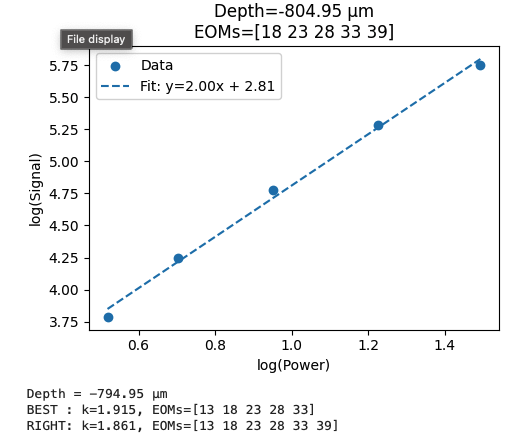
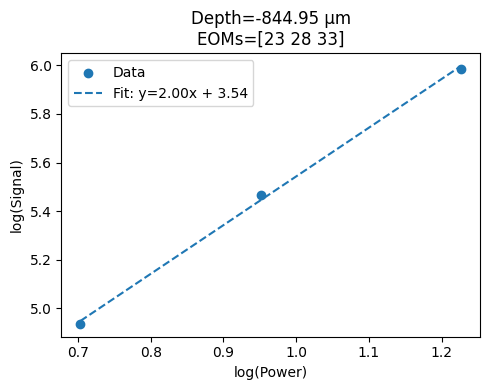
revise the readme according to the feedback

diff --git a/README.md b/README.md
@@ -2,11 +2,9 @@
 
 ## Materials:
 
-Instead of just using links, list the product part number, such as Sigma Aldrich, A4018-5G. One can also put a hyperlink to it, but with these part numbers, even if a link expires, people can still find out what it is.
-
-- [Agarose](https://www.sigmaaldrich.com/US/en/product/sial/a4018)
-- [1um fluorescent beads](https://www.thermofisher.com/order/catalog/product/F13081?SID=srch-srp-F13081): $C_{fluo} = 1\times10^{7}\ \text{beads}/\text{µL}$
-- [1um non-fluorescent polystyrene beads](https://polysciences.com/products/polybead-microspheres-100181m?srsltid=AfmBOorjVsqH1_RPydiDL_rl2QxODNqYwh8yssEixcAhqj7QJ9CAVFyL): $C_{poly} = 4.55\times10^{7}\ \text{beads}/\text{µL}$
+- [Agarose (Sigma Aldrich A4018-10G)](https://www.sigmaaldrich.com/US/en/product/sial/a4018)
+- [1um fluorescent beads (Thermo Fisher F13081)](https://www.thermofisher.com/order/catalog/product/F13081?SID=srch-srp-F13081): $C_{fluo} = 1\times10^{7}\ \text{beads}/\text{µL}$
+- [1um non-fluorescent polystyrene beads (Polysciences 07310)](https://polysciences.com/products/polybead-microspheres-100181m?srsltid=AfmBOorjVsqH1_RPydiDL_rl2QxODNqYwh8yssEixcAhqj7QJ9CAVFyL): $C_{poly} = 4.55\times10^{7}\ \text{beads}/\text{µL}$
 
 ---
 
@@ -19,7 +17,7 @@ Instead of just using links, list the product part number, such as Sigma Aldrich
 - Non-fluorescent polystyrene beads: $V_{poly} = 40\ \text{µL}$
 - Agarose solution: $V_{ag} = 156\ \text{µL}$
 
-1. The concentration of fluorescent beads:
+&nbsp;&nbsp;&nbsp;&nbsp; (a) The concentration of fluorescent beads:
 
 $$
 \frac{C_{fluo} \times V_{fluo}}{V_{fluo} + V_{poly} + V_{ag}}
@@ -27,7 +25,7 @@ $$
 = 2 \times 10^{5}\ \text{beads}/\text{µL}
 $$
 
-1. The concentration of non-fluorescent polystyrene beads:
+&nbsp;&nbsp;&nbsp;&nbsp; (b) The concentration of non-fluorescent polystyrene beads:
 
 $$
 \frac{C_{poly} \times V_{poly}}{V_{fluo} + V_{poly} + V_{ag}}
@@ -35,7 +33,7 @@ $$
 = 9.1 \times 10^{6}\ \text{beads}/\text{µL}
 $$
 
-1. Ratio between non-fluorescent polystyrene beads and fluorescent beads:
+&nbsp;&nbsp;&nbsp;&nbsp; (c) Ratio between non-fluorescent polystyrene beads and fluorescent beads:
 
 $$
 R = \frac{9.1 \times 10^{6}\ \text{beads}/\text{µL}}{2 \times 10^{5}\ \text{beads}/\text{µL}} = 45.5 : 1
@@ -47,26 +45,24 @@ $$
 
 ![Sample preparation setup](images/sample_preparation.png)
 
-1. <a id="eq-scale"></a>Scale (What is the precision requirement?)
+1. <a id="eq-scale"></a>[Scale with 1mg precision (e.g., Amazon B0B18FVKX9)](https://www.amazon.com/LACHOI-Analytical-Electronic-Scientific-Interface（100g/dp/B0B18FVKX9/ref=sr_1_23?crid=53N44CR6E6CP&dib=eyJ2IjoiMSJ9.JxhvFY01RhwK801tdZU35q9rQTYcC2tQthYvrtRK_c9qMeJaWoobppvpIbADMv_egsUysH1QiAmutARfYbUVo3xsRe3cZ6kqu_ip90FScCJDGi5FgLu_) 
 2. <a id="eq-bottle"></a>Heat resistant bottle for mixing and storing agarose solution
-3. <a id="eq-hotplate"></a>Stirring hotplate (e.g., Cimarec, or other more permanent vendors?)
-4. <a id="eq-tubes"></a>Microcentrifuge tubes
-5. <a id="eq-rack"></a>Tube rack
-6. <a id="eq-pipettes"></a>Pipettes (2–20 µL and 20–200 µL, kept in a pipette stand)
+3. <a id="eq-hotplate"></a>[Cimarec stirring hotplate (e.g., Thermo Fisher SP88854100)](https://www.labdepotinc.com/cimarec-plus-stirring-hotplate-series?hsa_acc=5326096552&hsa_ad=&hsa_cam=21108713499&hsa_grp=&hsa_kw=&hsa_mt=&hsa_net=adwords&hsa_src=x&hsa_tgt=&hsa_ver=&utm_campaign=Zombie+SKU+PMax&utm_medium=ppc&utm_source=adwords&utm_term=) 
+4. <a id="eq-tubes"></a>[Microcentrifuge tubes (e.g., Amazon B0BBV2LMW6)](https://www.amazon.com/Microcentrifuge-Sterilized-Plastic-Storage-Without/dp/B0BBV2LMW6/ref=sr_1_4?crid=25C67XB8W2600&dib=eyJ2IjoiMSJ9.xPCQBU3akLQF9rlTcVTk80aYDqlnaLlgpIB3o61syALNo4YVZ7pK2TRhUSHHzbtyePx1n4N1VfY8Aj9sUqRUC6LP2Sn7Orz1mKqxCnoEVPYP5y-dbozyev0I&th=1)
+5. <a id="eq-rack"></a>[Tube rack (e.g., Amazon B0D8R66MQ1)](https://www.amazon.com/microcentrifuge-centrifuge-Holder-0-5ml-2ml-Centrifugal/dp/B0D8R66MQ1/ref=sr_1_3?crid=1ZI3PYB3G9CUW&dib=eyJ2IjoiMSJ9.YORppysqg2ETX3WIv1hENrcBaf5mFiQT1zwaMrziZxj4AO9c8Xdj1H7rB4cdGXhXPN5NPZLih2-Zv4NAnjZxWRS0aKGhmVgp_CD9SMFMh5y9FSw52Hk&th=1) 
+6. <a id="eq-pipettes"></a>[Pipettes covering 2–20 µL and 20–200 µL volume ranges (e.g., Thermo Fisher F2-20R and Thermo Fisher F2-200R), stored in a pipette stand](https://pipette.com/F2-20R.html) 
+7. <a id="eq-sharpcontainer"></a>Sharps disposal container (requested from the BU EHS department)
+8. <a id="eq-vortexer"></a>[Vortexer (e.g., VWR IKA Model MV1)](https://www.marshallscientific.com/VWR-IKA-Model-MV1-Vortexer-p/vwr-ika.htm?srsltid=AfmBOop9bjFGTjvm6mfIoLMPdbEW2Kp7j4NSZWPVejsxydbgDRdUsfgK)
 
-*Position 7 (sharps container) is not used in this protocol.*
+**Additional items not labeled in the figure:**
 
-8. <a id="eq-vortexer"></a>Vortexer ([https://www.sigmaaldrich.com/US/en/product/aldrich/z258423?utm_source=google&utm_medium=cpc&utm_campaign=23331190685&utm_content=194830326172&gad_source=1&gad_campaignid=23331190685&gbraid=0AAAAAD8kLQSS_6w2_B1C1Bi5Sa_Ktb4WU&gclid=CjwKCAjwtvvPBhBuEiwAPMijrzI-B3EqGSsYTCZIccVJ85d4c7gr-BJnYrwrmTU8NBiiDqytkhDM7hoCxJQQAvD_BwE](https://www.sigmaaldrich.com/US/en/product/aldrich/z258423?utm_source=google&utm_medium=cpc&utm_campaign=23331190685&utm_content=194830326172&gad_source=1&gad_campaignid=23331190685&gbraid=0AAAAAD8kLQSS_6w2_B1C1Bi5Sa_Ktb4WU&gclid=CjwKCAjwtvvPBhBuEiwAPMijrzI-B3EqGSsYTCZIccVJ85d4c7gr-BJnYrwrmTU8NBiiDqytkhDM7hoCxJQQAvD_BwE)) (Fix it according to the format we discussed.)
-
-**Additional items not labeled in the figure**
-
-- <a id="eq-beaker"></a>Beaker (used as a water bath around the agarose container)
-- <a id="eq-stirbar"></a>Magnetic stir bar (e.g., vendor: [[https://www.sigmaaldrich.com/US/en/product/aldrich/z282456?utm_source=google&utm_medium=cpc&utm_campaign=23331190685&utm_content=194830326172&gad_source=1&gad_campaignid=23331190685&gbraid=0AAAAAD8kLQSS_6w2_B1C1Bi5Sa_Ktb4WU&gclid=CjwKCAjwtvvPBhBuEiwAPMijr_WbPgAh6LRYkxQCAvRytWpy8d6M3-D5_5JFgzTYt44BOdLEZkLuKhoCHpMQAvD_BwE]](https://www.sigmaaldrich.com/US/en/product/aldrich/z282456?utm_source=google&utm_medium=cpc&utm_campaign=23331190685&utm_content=194830326172&gad_source=1&gad_campaignid=23331190685&gbraid=0AAAAAD8kLQSS_6w2_B1C1Bi5Sa_Ktb4WU&gclid=CjwKCAjwtvvPBhBuEiwAPMijr_WbPgAh6LRYkxQCAvRytWpy8d6M3-D5_5JFgzTYt44BOdLEZkLuKhoCHpMQAvD_BwE])
-- <a id="eq-slide"></a>Thick cavity well slide (e.g., United Scientific, how thick and how large is the well?)
-- <a id="eq-coverslip"></a>Coverslip (e.g, ???)
-- <a id="eq-swab"></a>Cotton swab
-- <a id="eq-polish"></a>Nail polish
-- <a id="eq-glue"></a>Super glue (e.g., Loctite)
+- <a id="eq-beaker"></a>[Beaker used as a water bath for heating and maintaining the agarose solution (e.g., Amazon B08X6KP8PS)](https://www.amazon.com/Feekoon-Measuring-Graduated-Cylinder-Cylinders/dp/B08X6KP8PS/ref=sr_1_4?dib=eyJ2IjoiMSJ9.fkiy-8L7Je-EhWoATqCnvyxkq-v-FXMNVzCA7z-qGeDNDcs54P547jp8ul-74plALojN6ZS2jLbsIO2a_mj1rIs66-stxX9k9EgyGbAiZ4CkSnhwNJoL-2j5WdnW8k42mjKDnWgq5s6cqeG)
+- <a id="eq-stirbar"></a>[Magnetic stir bar (Amazon B08433BR2B)](https://www.amazon.com/Magnetic-Stirrer-Mixer-Laboratory-Magnet/dp/B08433BR2B/ref=sr_1_2_sspa?crid=196CI2UFZHRCA&dib=eyJ2IjoiMSJ9.BECz6XLmK0t2h23_xptReyUTl5H8ZWBFAkGMivEEslBczVqOcwe5r1wQVG_yIOzjQ9UYQqf0aYLCqZXuW098UgIffXQruAhnDwCammP35x5B738wfu_AB1LG1uUR9&th=1)
+- <a id="eq-slide"></a>[Thick cavity well slide (e.g., United Scientific CSTK01 1-Concavity slide; 75 mm × 25 mm, 3 mm thick, concavity diameter ~16 mm, depth ~0.8 mm)](https://www.labdepotinc.com/p-12937-cavity-slides?utm_term=&utm_campaign=Zombie+SKU+PMax&utm_source=adwords&utm_medium=ppc&hsa_acc=5326096552&hsa_cam=22295522342&hsa_grp=&hsa_ad=&hsa_src=x&hsa_tgt=&hsa_kw=&hsa_mt=&hsa_net=adwords&hsa_ver=3&gad_source=1&ga)
+- <a id="eq-coverslip"></a>[Coverslip (e.g., Thorlabs CG15CH2, #1.5H thickness, 22 mm × 22 mm)](https://www.thorlabs.com/item/CG15CH2)
+- <a id="eq-swab"></a>[Cotton swab (e.g., VWR International 10806-000-PK)](https://www.labdepotinc.com/p-64-cotton-tipped-wooden-applicators?utm_term=&utm_campaign=Performance+Max+-+AGT&utm_source=adwords&utm_medium=ppc&hsa_acc=5326096552&hsa_cam=15278638752&hsa_grp=&hsa_ad=&hsa_src=x&hsa_tgt=&hsa_kw=&hsa_mt=&hsa_net=adwords&hsa)
+- <a id="eq-polish"></a>[Nail polish (e.g., Amazon B0046MLZLG)](https://www.amazon.com/Sally-Hansen-Advanced-Nails-Fluid/dp/B0046MLZLG?th=1)
+- <a id="eq-glue"></a>[Krazy Glue (e.g., Amazon B0BXMWDM42)](https://www.amazon.com/Krazy-Glue-EPIKG86648R-KG86648R-All-Purpose/dp/B0BXMWDM42/ref=sr_1_8?crid=2H3DLY2HBZ1CP&dib=eyJ2IjoiMSJ9.ZVQWAnzUL49sypVj2K7n-leSSrUo7HbydfUd-yI2bc795v5Pu9ScxNl3HniW7hCEcXaGtl3xIBKb4z0qt5psn8JYd0jh3G0daA0tnMldLPD4FYgdFbVpa6mZ_Phrbjb&th=1)
 
 ---
 
@@ -86,19 +82,19 @@ Sample preparation setup
 - Slightly unscrew the cap of container of agarose.
 - Turn on the [stirring hotplate](#eq-hotplate) and set the stirring speed to 7. Heat until the agarose is fully dissolved and the solution becomes clear (approximately 30 min).
 
-1. **Make the tissue phantom samples.**
+2. **Make the tissue phantom samples.**
 
-- Retrieve one [microcentrifuge tube](#eq-tubes) from the cabinet and place it into the [tube rack](#eq-rack). Using the pipettes from the pipette stand, pipette 4 µL of fluorescent beads with a [2–20 µL pipette](#eq-pipettes) and 40 µL of non-fluorescent polystyrene beads with a [20–200 µL pipette](#eq-pipettes) into the same tube. Dispose of the pipette tips into the sharps container.
+- Retrieve one [microcentrifuge tube](#eq-tubes) from the cabinet and place it into the [tube rack](#eq-rack). Using the pipettes from the pipette stand, pipette 4 µL of fluorescent beads with a [2–20 µL pipette](#eq-pipettes) and 40 µL of non-fluorescent polystyrene beads with a [20–200 µL pipette](#eq-pipettes) into the same tube. Dispose of the pipette tips into the [sharps container](#eq-sharpcontainer).
 - Using a 20–200 µL pipette, pipette 156 µL of agarose from the container and dispense it into the same microcentrifuge tube. Keep the pipette tip below the liquid surface to avoid bubbles, and mix by pipetting up and down quickly to ensure even mixing before the agarose starts to gel. Be sure to avoid generating bubbles during the process.
 - Turn on the [mini vortexer](#eq-vortexer) and set the speed to 1400 rpm. Place the tube on the vortexer and mix thoroughly (approximately 40 second).
 - Using a 20–200 µL pipette, pipette 135 µL of the mixture and dispense it into the [cavity slide](#eq-slide).
 - Slowly lower the [coverslip](#eq-coverslip) from the side so that it gently covers the sample on the cavity slide and avoid pressing down forcefully to reduce bubble formation.
 - Lightly press the coverslip with a [cotton swab](#eq-swab) to squeeze out and wipe any excess liquid from the edges using a cotton swab to keep the edges clean.
 - Apply [nail polish](#eq-polish) to the four edges of the coverslip first to fix it in place and allow it to dry for approximately 5 mins.
-- Once the nail polish is dry, apply [glue](#eq-glue) along the four edges of the coverslip to further enhance the seal.
+- Once the [nail polish](#eq-polish) is dry, apply [glue](#eq-glue) along the four edges of the [coverslip](#eq-coverslip) to further enhance the seal.
 - Mark the date and name of the sample on the slide.
 
-1. **Shutdown and storage**
+3. **Shutdown and storage**
 
 - Reduce the hotplate temperature and stirring speed to 0, then switch the [stirring hotplate](#eq-hotplate) off.
   > ⚠ **Fire hazard:** Never leave the hotplate running unattended. If the water bath fully evaporates while the heater is still on, the residual agarose will carbonize and the container can ignite.
@@ -113,57 +109,77 @@ Sample preparation setup
 - Close the laser shutter so that there is no excitation light after the objective lens.
 - In a dark environment, acquire multiple images under exactly the same imaging condition and image acquisition configurations as the rest of imaging sessions, except that the excitation laser is blocked.
 
-1. **Pockels Cell Calibration (Optional)**
+2. **Pockels Cell Calibration**
 
 - This procedure is required if one does not know the absolute excitation laser power after the objective lens, and the laser power is controlled by a Pockels Cell.
 - Open the laser shutter and set the laser to the desired wavelength.
 - Gradually increase the Pockels cell control voltage and record the corresponding laser power after the beam passes through the objective lens.
 
-1. **Determination of the Fluorescence Signal Strength in the Tissue Phantom**
+3. **Determination of the Fluorescence Signal Strength in the Tissue Phantom**
 
 - Place the tissue phantom slide on the sample stage. Bring the objective lens close to the slide surface (distance less than its working distance, e.g., 1 mm). Apply immersion medium between the objective and the slide.
 - Set the laser power after the objective to a relatively low power (1-2 mW). Turn on the scanner and begin scanning the sample. Move the microscope z-stage with a step size of 10 µm to gradually move the objective away from the sample until fluorescence signal is first observed. Record the corresponding z-plane as $z_1$, which represents the lower boundary of the fluorescence volume.
 - Continue raising the microscope until the fluorescence signal completely disappears. Record the corresponding z-plane as $z_2$, which represents the surface of the fluorescent sample.
 
-1. **Scanning the Fluorescence Volume**
+4. **Scanning the Fluorescence Volume**
 
-- Scan the same fluorescence volume ($z_2$ to $z_1$) using a series of different laser powers after the objective (maximum power: 5 mW).
+- Divide the fluorescence volume ($z_2$ to $z_1$) into three sub-volumes along the axial direction.
+- Start from the sub-volume closest to the sample surface and acquire image stacks using a relatively low excitation power range. Refer to [the procedure](#power-range-determination) describing how the power range maintaining the fluorescence signal within the non-saturated 2PE regime is determined.
+- After completing the imaging of one sub-volume, increase the excitation power and move to the next deeper sub-volume.
+- Repeat the same procedure for each subsequent sub-volume: determine an appropriate excitation power range and acquire the corresponding image stack.
 - Use a step size of 10 µm between imaging planes.
-- For each image, record its excitation laser power and its imaging depth.
+- For each image, record its excitation laser power and imaging depth.
 
 ---
 
-## Data processing ([code](https://github.com/garyhost0630/Multiphoton-attenuation-length-measurement))
+## Data processing ([Example](https://github.com/garyhost0630/Multiphoton-attenuation-length-measurement))
 
 1. **Background Subtraction**
 
-- Calculate the mean of the background images to obtain the background. Refer to [the procedure](#eal-measurement) describing how it was captured.
-- If the backgrond is non-zero, subtract it from all the images.
+- Calculate the mean of the background image stack to obtain the averaged background image. Refer to [the procedure](#eal-measurement) describing how the background images were acquired.
+- Subtract the averaged background image from all fluorescence images.
+- Negative values after subtraction are clipped to zero.
 
-1. **Determination of the Power Range for Unsaturated 2PE for each depth**
+<a id="power-range-determination"></a>
+&nbsp;&nbsp;&nbsp;&nbsp;&nbsp; 2. **Determination of the Power Range for Unsaturated 2PE for Each Depth**
 
-- For each imaging depth, calculate the mean intensity of the top 1% brightest pixels in the image as the fluorescence signal at each power.
-- Perform a linear fit in log-log space using consecutive power values and their corresponding fluorescence signals, where the x-axis is $\log(\text{power})$ and the y-axis is $\log(\text{signal})$.
-- Determine the appropriate power range such that the slope of the fitted line is closest to 2, indicating unsaturated 2PE, as shown in the figure below.
-
+- For each imaging depth, extract fluorescence signals under different excitation powers.
+- Convert EOM values to excitation power using `lookuptable.xlsx`.
+- Calculate the fluorescence signal at each power as the mean intensity of the brightest `TOP_PERCENT` percent of pixels.
+- Perform linear fits in log-log space using consecutive excitation powers and their corresponding fluorescence signals:
+$$
+\log(\text{Signal}) = k \log(\text{Power}) + b
+$$
+- Determine the appropriate excitation power range by selecting the contiguous fitting window whose slope is closest to `TARGET_TWO_PHOTON_SLOPE = 2.0`.
+- An example of the fitting result is shown in the figure below.
 
 ![Log-log fit of fluorescence signal vs power](images/power_slope_fit.png)
 
 
-1. **Selection of the Depth Range for EAL Calculation**
+3. **Selection of the Depth Range for EAL Calculation**
 
-- Using the method described in Step 2, determine the optimal power range and the corresponding linear fitting slope for each imaging depth. A summary of the results is shown in the figure below.
-- Select a continuous depth range in which the optimal fitting slopes are close to or equal to 2. This depth range is then used for EAL calculation.
-
+- Using the method described in Step 2, determine the optimal excitation power range and the corresponding fitted slope for each imaging depth.
+- Plot the fitted slope as a function of imaging depth, as shown in the figure below.
+- Select a continuous depth range in which the fitted slopes remain close to 2. The selected depth range is then used for EAL estimation.
 
 ![Fitted slopes across imaging depths](images/depth_slope_summary.png)
 
+4. **EAL Estimation**
 
-1. **EAL estimation**
-
-- For each selected depth, choose the second-highest power within the valid (non-saturated) power range and extract the corresponding fluorescence signal. Normalize the fluorescence signal by the excitation power.
-- Perform a linear fit between imaging depth and the log of the normalized fluorescence signal.
-- Obtain the slope $k$ and compute EAL using $\text{EAL} = -2/k$ as shown below.
+- For each selected imaging depth, choose the second-highest excitation power within the valid (non-saturated) power range and extract the corresponding fluorescence signal.
+- Normalize the fluorescence signal by the excitation power:
+$$
+y = \log \left(\frac{S}{P^2}\right)
+$$
+&nbsp;&nbsp;&nbsp;&nbsp;&nbsp; where:
+- $S$ is the fluorescence signal
+- $P$ is the excitation power
+- Perform a linear fit between imaging depth and the log-transformed normalized fluorescence signal.
+- Obtain the fitted slope $k$ and compute the effective attenuation length (EAL) using:
+$$
+\text{EAL} = -\frac{2}{k}
+$$
+- An example of the EAL fitting result is shown in the figure below.
 
 
 ![EAL linear fit](images/eal_fit.png)
